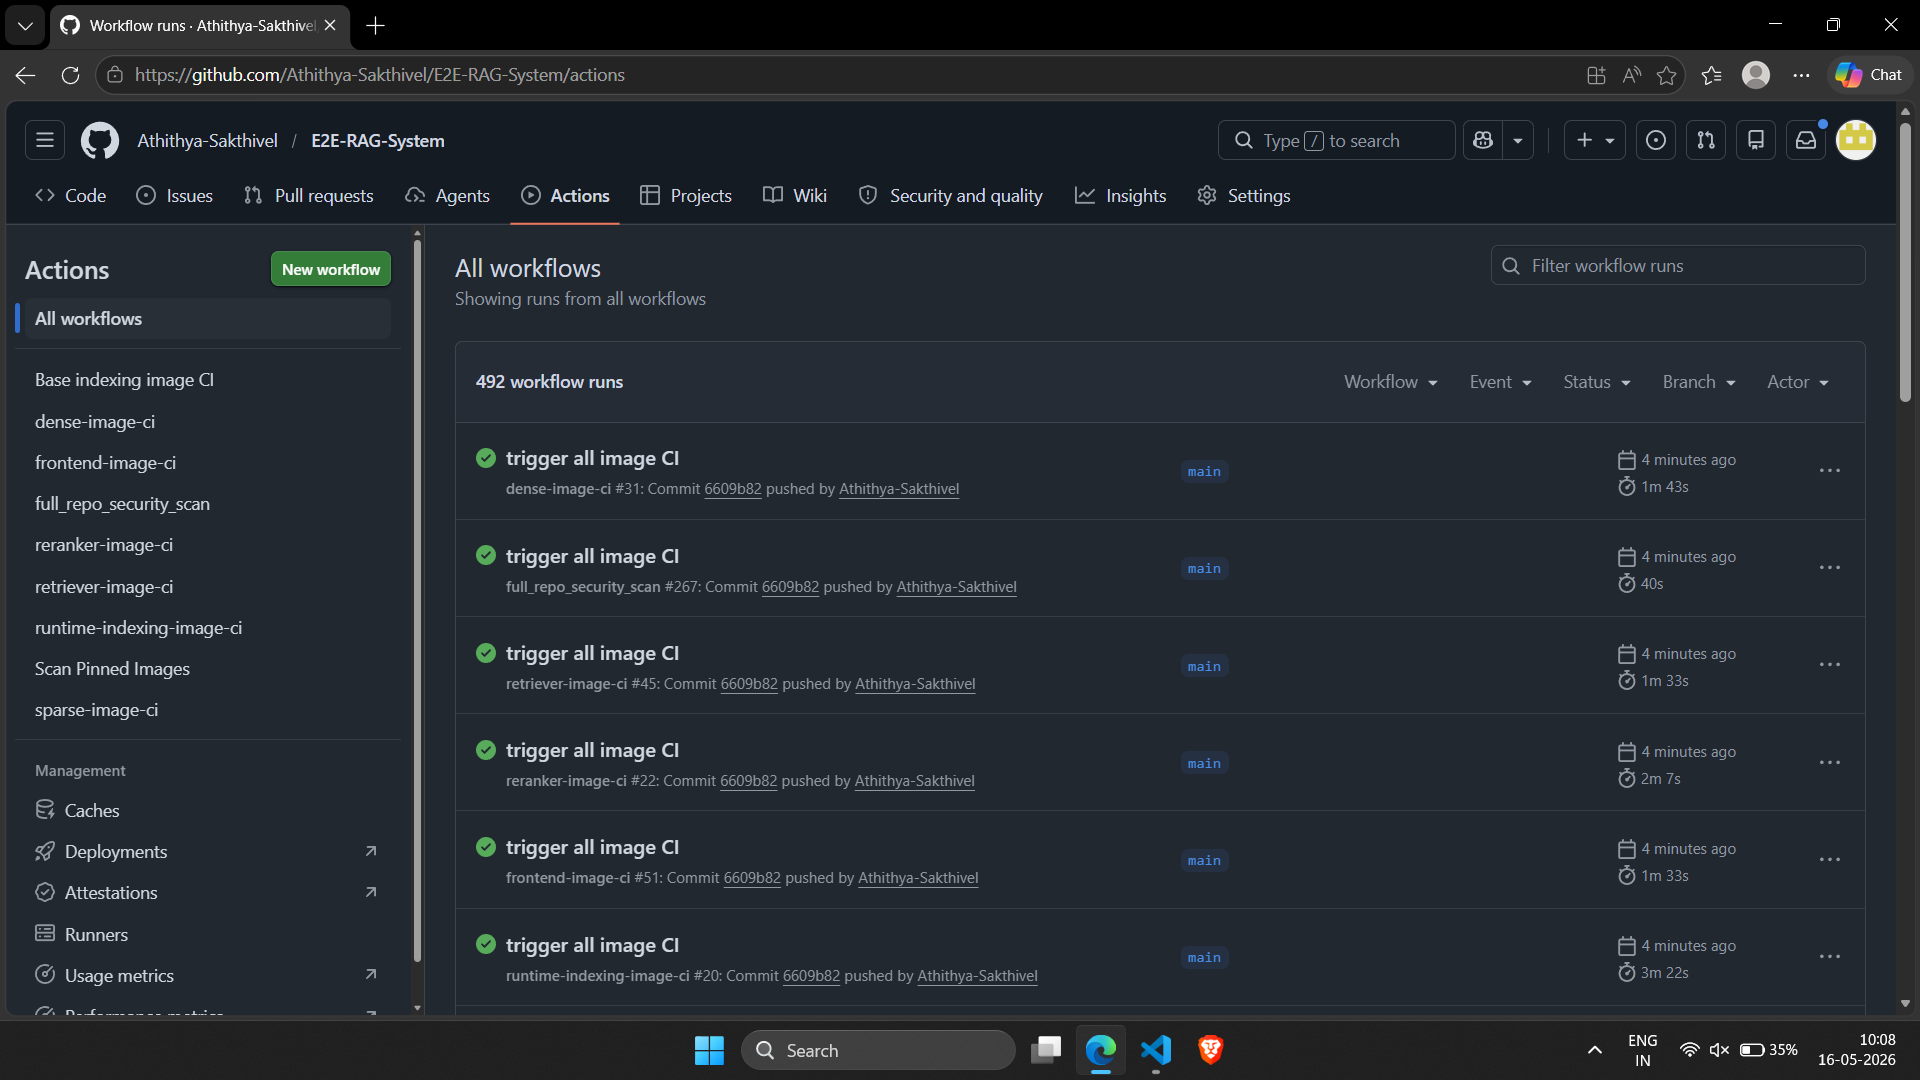
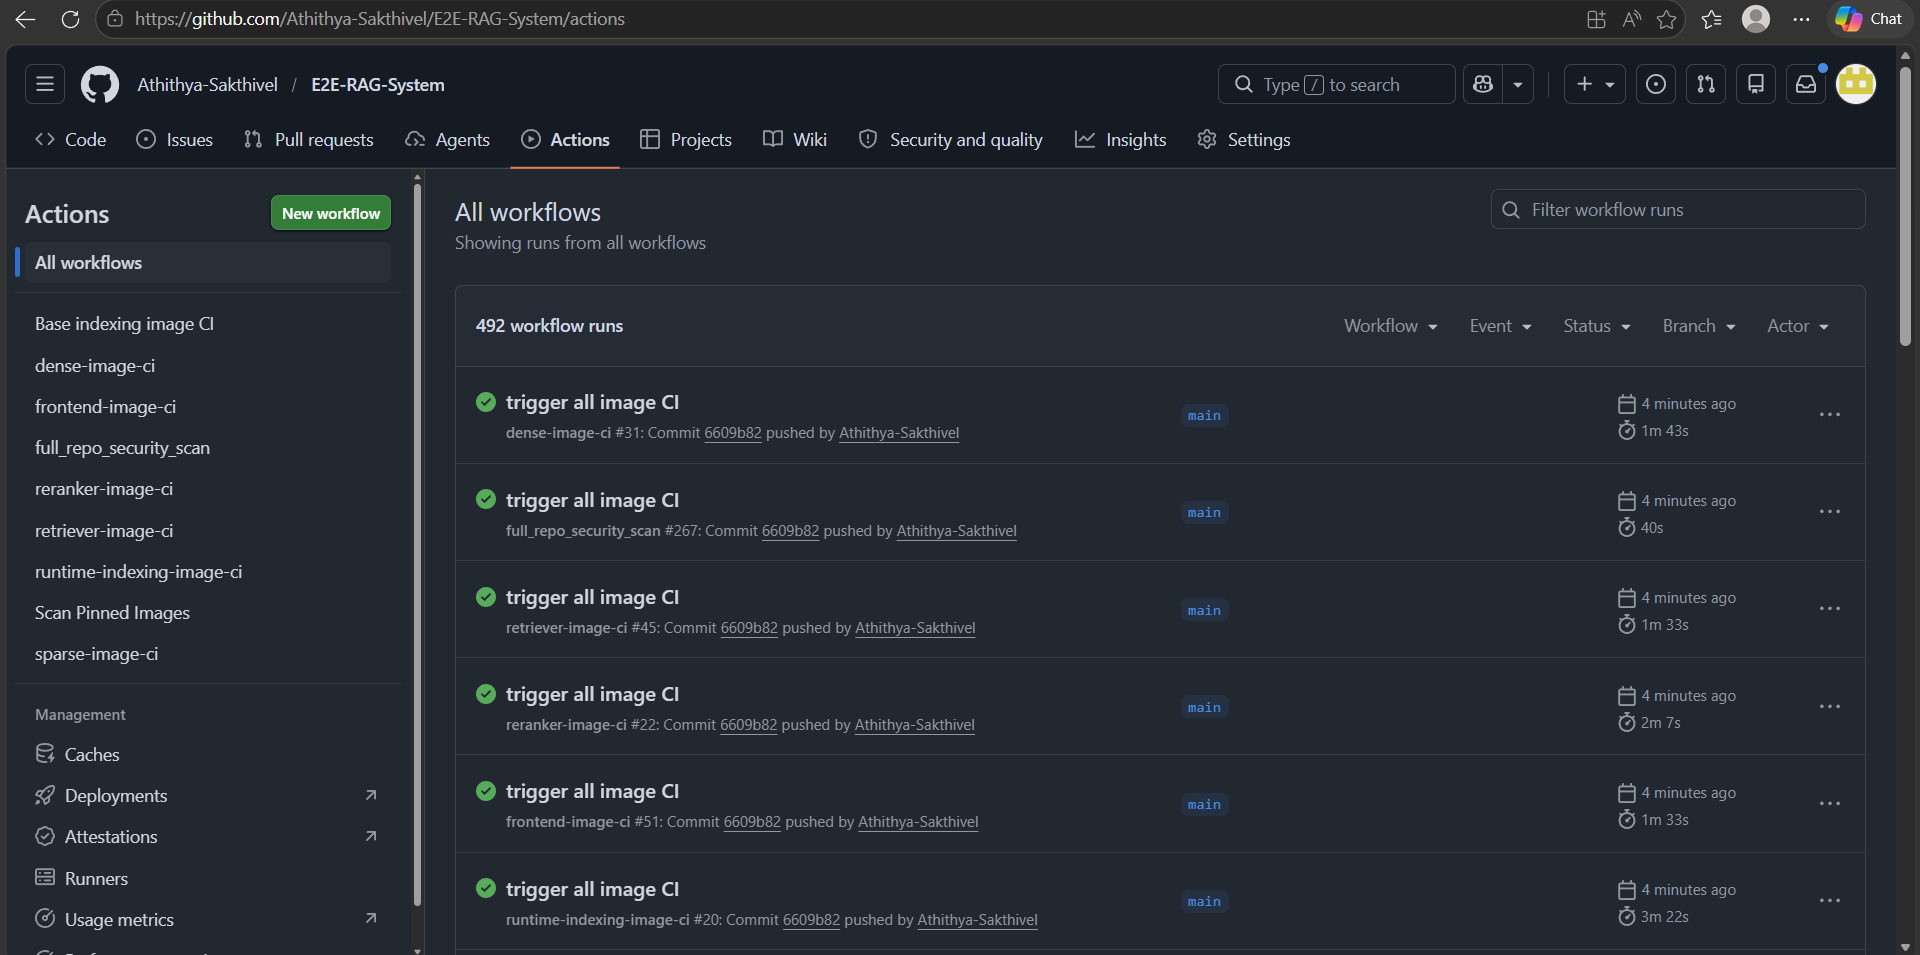
updating docs

diff --git a/README.md b/README.md
@@ -3,6 +3,10 @@
 
 ---
 
+![alt text](src/scripts/archive/images/rag8s.gif)
+
+---
+
 ## Architecture
 
 The RAG lifecycle is separated into two independent execution planes:
@@ -13,8 +17,12 @@ The RAG lifecycle is separated into two independent execution planes:
 **Online inference plane:**
   A low‑latency streaming request path that authenticates users via OIDC, performs exact and semantic cache lookups, embeds the query (dense + sparse in parallel), executes hybrid Qdrant search with Reciprocal Rank Fusion, optionally re‑ranks with a cross‑encoder, builds a strictly‑grounded numbered prompt, and streams the answer via AWS Bedrock. Every response is citation‑validated—hallucinated references are stripped, and users can open original documents with one‑click presigned S3 URLs.
 
+---
+
 <img width="1536" height="1024" alt="image" src="https://github.com/user-attachments/assets/f8c5ac0e-f5cf-4b7d-ad10-b21c64a36aa2" />
 
+
+---
 
 ## Cloud Infrastructure
 
@@ -89,7 +97,7 @@ Automated evaluation against a 75-record golden dataset, tracked in MLflow.
 
 Each record defines query, expected chunk, reference answer, and expected facts. Evaluation measures retrieval accuracy, fact coverage, groundedness, and citation integrity across all records.
 
-> By combining hybrid retrieval, precise citation grounding, clean separation of batch and online concerns, declarative infrastructure, layered security, and comprehensive observability, `RAG8s` serves as a robust **foundational infrastructure** for running RAG systems in real production environments.
+> By combining hybrid retrieval, precise citation grounding, clean separation of batch and online concerns, declarative infrastructure, layered security, and comprehensive observability, `RAG8s` serves as a **robust foundation** for running RAG systems in real production environments.
 
 ---
 
@@ -126,6 +134,8 @@ gh auth login
 ✓ Authentication complete. Press Enter to continue...
 ```
 
+---
+
 ### Create a private repo in your gh account
 
 ```sh
@@ -155,7 +165,14 @@ bash src/infra/terraform/aws/run.sh --create --env staging
 ```
 
 ---
+
+
+<details>
+<summary>▶ Expected output</summary>
+
 ![alt text](src/scripts/archive/images/tf.png)
+
+</details>
 
 ---
 
@@ -164,6 +181,7 @@ bash src/infra/terraform/aws/run.sh --create --env staging
 ```sh
 aws eks update-kubeconfig --region ap-south-1 --name rag-eks-staging
 ```
+---
 
 ### Phase 2: Container Images (CI/CD)
 
@@ -174,7 +192,17 @@ Replaces account IDs and region with your's in CI workflow files so GitHub Actio
 bash src/scripts/replace.sh
 ```
 
+
+
+<details>
+<summary>▶ Expected output</summary>
+
 ![alt text](src/scripts/archive/images/ecr_push.png)
+
+</details>
+
+
+---
 
 ### Phase 3: GitOps Controller & Auto-Scaling
 
@@ -186,8 +214,16 @@ export GIT_PAT=ghp_   # Visit https://github.com/settings/tokens/new
 bash src/infra/core/argo_setup.sh --rollout
 ```
 
+<details>
+<summary>▶ Expected output</summary>
+
 ![alt text](src/scripts/archive/images/argo_setup.png)
 
+</details>
+
+
+
+---
 
 #### 3.2 Bootstrap Karpenter for Spot Instance Auto-Scaling
 [Karpenter](https://karpenter.sh/docs/) provisions `node-type=compute:NoSchedule` nodes; workloads such as the Frontend, Retriever, Dense Embedder, Sparse Embedder, Reranker, Indexing CronJob, and Cloudflared tunnel target these nodes using the matching `node-type=compute toleration`, with a PDB protecting Cloudflared availability. When these workloads are unschedulable, Karpenter provisions EC2 Spot capacity and applies the `WhenEmptyOrUnderutilized` consolidation policy, consolidating underutilized nodes after 15 minutes.
@@ -200,14 +236,23 @@ export AWS_REGION="ap-south-1"
 bash src/scripts/eks/bootstrap_karpenter.sh --rollout
 ```
 
-![alt text](src/scripts/archive/images/karpenter.png)
+<details>
+<summary>▶ Expected output</summary>
+
+![alt text](src/scripts/archive/images/karpenter_setup.png)
+
+</details>
+
+
+
+---
 
 ### Phase 4: Data Ingestion & Vector Storage
 
 #### 4.1 Deploy the Indexing Pipeline.
 This phase sets up the complete document processing stack. It deploys Qdrant (a 3-node vector database for storing embeddings), FastEmbed services (three microservices for dense embeddings, sparse embeddings, and reranking), and finally the indexing CronJob that runs on a schedule.
 
-Once deployed, this pipeline automatically handles the full document lifecycle: ingesting raw files from S3, converting them to text (including OCR for scanned documents), splitting them into smaller chunks, generating embeddings for each chunk, and indexing them into Qdrant for fast retrieval.
+Once deployed, this pipeline automatically handles the full document lifecycle: Uploads few pdfs and htmls to s3, ingests raw files from S3, converts them to text (including OCR for scanned documents), splitting them into smaller chunks, generating embeddings for each chunk, and indexing them into Qdrant for fast retrieval.
 
 Check the [documentation](src/indexing_pipeline/README.md) for configuration details and how the indexing pipeline works under the hood.
 
@@ -217,7 +262,15 @@ bash src/scripts/eks/run_indexing_pipeline.sh
 ```
 > ⚠ **Note:** Karpenter may take 5–15 minutes to provision EC2 instances if the cheapest matching instance type is unavailable. It retries with other c-family types automatically. Pods will stay Pending until a compatible instance launches.
 
-![alt text](src/scripts/archive/images/indexing.png)
+<details>
+<summary>▶ Expected output</summary>
+
+![alt text](src/scripts/archive/images/indexing_pipeline.png)
+
+</details>
+
+
+---
 
 ### Phase 5: External Access & DNS
 
@@ -240,7 +293,16 @@ export CLOUDFLARE_TUNNEL_ID="$(tofu -chdir=src/infra/terraform/cloudflare output
 # Deploy cloudflared with secrets
 python3 src/infra/core/cloudflared_setup.py --write
 ```
-![alt text](src/scripts/archive/images/tunnel.png)
+
+<details>
+<summary>▶ Expected output</summary>
+
+![alt text](src/scripts/archive/images/cloudflare_tunnel.png)
+
+</details>
+
+
+---
 
 ### Phase 6: Query Engine & User-Facing Services
 
@@ -258,7 +320,16 @@ export MICROSOFT_ALLOWED_TENANT_IDS=
 export MICROSOFT_ALLOWED_DOMAINS=
 bash src/scripts/eks/run_inference_pipeline.sh
 ```
-![alt text](src/scripts/archive/images/inference_svc.png)
+
+<details>
+<summary>▶ Expected output</summary>
+
+![alt text](src/scripts/archive/images/inference_svcs.png)
+
+</details>
+
+
+---
 
 ### Phase 7: Observability
 
@@ -274,9 +345,11 @@ export ADMIN_PASSWORD=grafana # set strong password
 bash src/scripts/eks/observability_setup.sh
 ```
 
+---
+
 ### End-to-End System Complete
 
-## [▶ RAG Demo](https://www.linkedin.com/posts/athithya-sakthivel-a23062341_rag-kubernetes-aws-ugcPost-7462146556369068032-HWum/?utm_source=share&utm_medium=member_desktop&rcm=ACoAAFWdiTsBt7H3ZH4nN3qLvJW2_oMz8yoTOPc)
+## [▶ RAG8s Demo](https://www.linkedin.com/posts/athithya-sakthivel-a23062341_rag-kubernetes-aws-ugcPost-7462146556369068032-HWum/?utm_source=share&utm_medium=member_desktop&rcm=ACoAAFWdiTsBt7H3ZH4nN3qLvJW2_oMz8yoTOPc)
 
 Once deployment finishes, your environment should match the configuration demonstrated in the project video. Open your browser and access the following services:
 
@@ -288,13 +361,28 @@ Once deployment finishes, your environment should match the configuration demons
 
 > **Note:** OIDC authentication is configured to allow all Google and Microsoft accounts by default. For production deployments, restrict access using the env vars `GOOGLE_ALLOWED_DOMAINS` and `MICROSOFT_ALLOWED_TENANT_IDS`.
 
-<img width="1920" height="1080" alt="Screenshot (5)" src="https://github.com/user-attachments/assets/b4789f6f-867e-4b90-9f49-36df2b43e6dc" />
+<details>
+<summary>▶ Expected outputs</summary>
 
-<img width="1920" height="1080" alt="Screenshot (6)" src="https://github.com/user-attachments/assets/bb3c79ec-ce63-4d12-9c96-5d0da11436f8" />
+![alt text](src/scripts/archive/images/ui.png)
 
-<img width="1920" height="1080" alt="Screenshot (7)" src="https://github.com/user-attachments/assets/ddbbb1ed-b981-4dc5-a123-26acd0633f2e" />
+---
 
-<img width="1920" height="1080" alt="Screenshot (8)" src="https://github.com/user-attachments/assets/a38618ed-403f-4367-9377-30100c0aac37" />
+![alt text](src/scripts/archive/images/observability_health.png)
+
+---
+
+![alt text](src/scripts/archive/images/service_health.png)
+
+---
+
+![alt text](src/scripts/archive/images/argo_ui.png)
+
+---
+
+</details>
+
+
 
 ### Optional: Test Alerting and Disaster Recovery
 
@@ -343,7 +431,14 @@ kill %1 2>/dev/null || true
 - ArgoCD self-heals infrastructure when re-enabled
 - S3 backups are restorable with point-count parity
 
-![alt text](src/scripts/archive/images/alert.png)
+---
+
+<details>
+<summary>▶ Expected output</summary>
+
+![alt text](src/scripts/archive/images/alerts.png)
+
+</details>
 
 ---
 
